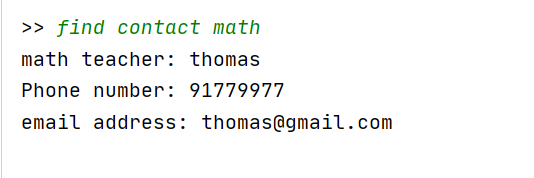
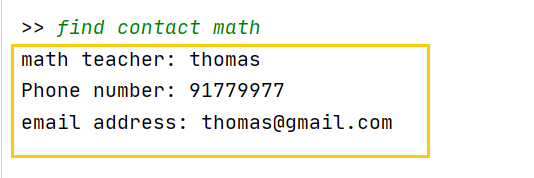
Update images for contact commands in UG

Changed region(s): [[0.0, 0.2247, 0.809, 0.8989]]

diff --git a/docs/UserGuide.md b/docs/UserGuide.md
@@ -592,7 +592,7 @@ WARNING:
 
 ![erroraddclass](https://raw.githubusercontent.com/AY2021S1-CS2113T-W12-4/tp/master/docs/images/erroraddclass.png)
 
-![add_contact_wrongly]
+![add_contact_wrongly](https://raw.githubusercontent.com/AY2021S1-CS2113T-W12-4/tp/master/docs/images/add_contact_wrongly.png)
 
 #### Deleting a contact `delete contact`
 Allows you to delete a contact from the contact list.
@@ -628,14 +628,19 @@ The output is seen in the console.
 #### Finding a contact `find contact`
 Look for contacts that match the given keywords you want.
 
-Format: `find contact [keyword(s)]`
+In the case when you have many contacts in your list and you need to find a specific contact, you can use the 
+`find contact` command to look for the contact you want by entering keywords related to it.
 
-Examples: `find contact math`
+Let's say we need to find out the contact of our math teacher. We can type `find contact math` 
+into the command box, and press 'Enter' to execute it.
 
-Example Output:
-<br>
+![find_contact_command](https://raw.githubusercontent.com/AY2021S1-CS2113T-W12-4/tp/master/docs/images/find_contact_command.png)
+
+The output can then be seen in the console.
+
 ![find_contact](https://raw.githubusercontent.com/AY2021S1-CS2113T-W12-4/tp/master/docs/images/find_contact.png)
 
+<img src="https://raw.githubusercontent.com/AY2021S1-CS2113T-W12-4/tp/master/docs/images/find%20note.jpg" width="500"  alt="findnote"/>
 
 ### Exits Program: `bye`
 Exits the program once you have finished using it.
